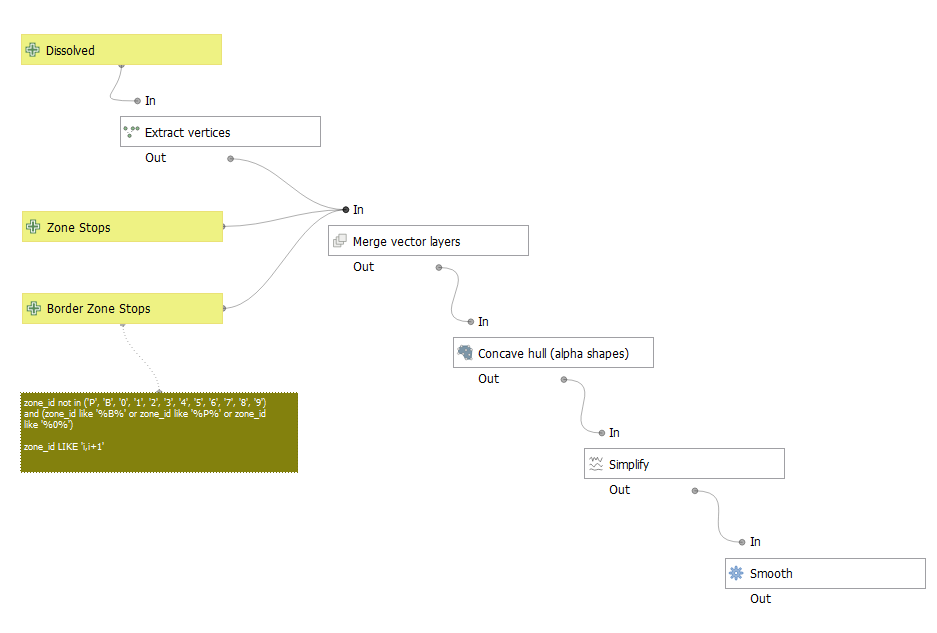
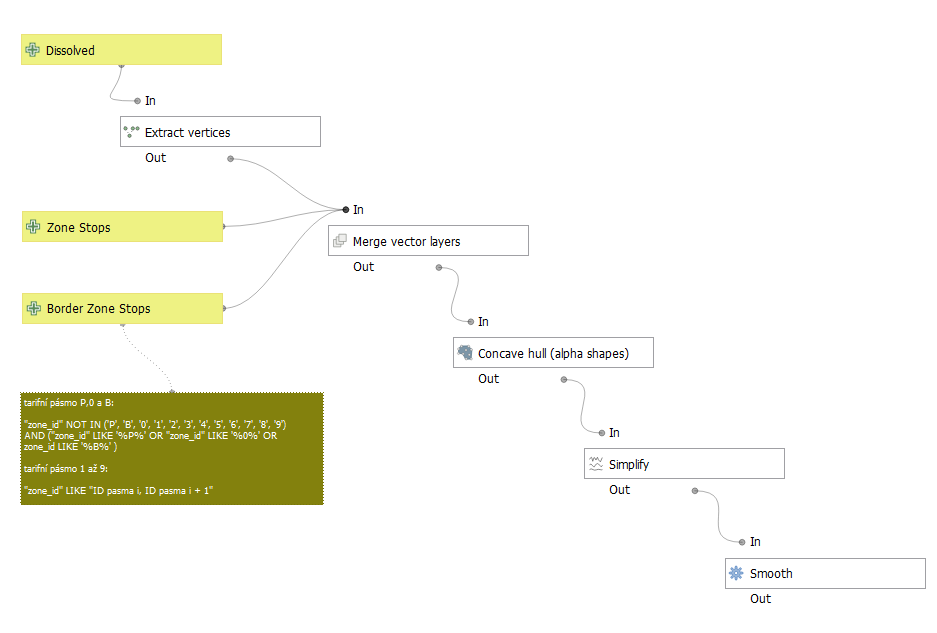
obrázky postupu + závěr + oprava chyb

Changed region(s): [[0.0, 0.6003, 0.3714, 0.8104]]

diff --git a/text/1-reserse.tex b/text/1-reserse.tex
@@ -3,7 +3,7 @@
 
 Tarifní pásma Pražské integrované dopravy jsou mimo jiné publikována jako shapefile 
 \footnote{formát vektorového datového úložiště Esri pro ukládání umístění,
-tvaru a atributů geografických prvků \cite{shapefile}}
+tvaru a atributů geografic\-kých prvků \cite{shapefile}}
 na portálu \textit{opendata hlavního města Prahy} \cite{opendata}. Tento shapefile
 obsahuje vektorové vrstvy polygonů.
 
@@ -11,10 +11,10 @@ obsahuje vektorové vrstvy polygonů.
 \label{triangulace}
 
 První myšlenkou, jak se přiblížit k takovým polygonům bylo vytvoření linií mezi jednotlivými zastávkami.
-K tomu slouží takzvaná triangulace, která vytvoří trojúhelníky bezi body, kde uvnitř těchto trojuhelníků  
+K tomu slouží takzvaná triangulace, která vytvoří troj\-úhelníky mezi body, kde uvnitř těchto trojúhelníků  
 už neleží žádné body a každý trojúhelník má vždy společnou jednu hranu. 
 
-Takové triangulace se používají v kartografii, tak v GIS, v Dálkovém průzkumu země,
+Takové triangulace se používají jak v kartografii, tak v GIS, v Dálkovém průzkumu země,
 počítačové grafice, při analýze vlastností a struktury materiálů, plánování pohybu robotů
 nebo při modelování přírodních jevů. \cite{bayer-delaunay}
 
@@ -34,7 +34,7 @@ nepříliš používá. \cite{vanicek}
 \end{figure}
 
 Další triangulací je tzv. Delaunay triangulace, která je nejčastěji používaná.
-Delaunay triangulací se rozumí vytváření liniových spojnic bodů mez jednotlivými body, které si jsou sobě nejblíž,
+Delaunay triangulací se rozumí vytváření liniových spojnic bodů mezi jednotlivými body, které jsou si nejblíže,
 za pomocí opsaných kružnic. Delaunay triangulace má několik vlastností. Jednou z nich je například,
 že uvnitř kružnice k opsané libovolnému trojúhelníku neleží žádný jiný bod.
 Zároveň Delaunay triangulace je jednoznačná, pokud žádné čtyři body neleží na kružnici.
@@ -59,12 +59,12 @@ tudíž se pro tvorbu 2D tarifních pásem úplně nehodí.
 \label{konv_obalka}
 
 Pro vytváření hranic polygonů je konvexní obálka jedna z možností, co použít. Konvexní obálka (anglicky Convex hull)
-je nejmenší konvexní mnoužinou, pokud spojnice  libovolných dvou prvků leží zcela uvnitř této množiny.
-Je to jedna z nejpoužívanějších geometrických struktura, která je většinou používaná jako první odhad tvaru
+je nejmenší konvexní množinou, pokud spoj\-nice  libovolných dvou prvků leží zcela uvnitř této množiny.
+Je to jedna z nejpoužívanějších geometrických struktur, která je většinou používána jako první odhad
 prostorového tvaru.
 
 Konstrukce konvexní obálky se nejčastěji provádějí metodami: Jarvis Scan, Graham Scan, Quick Hull nebo
-Divide and Conquer. Konvexní obálku lze vytvářet i pomocí Delaunay triangulace, kdy se po dokončení
+Divide and Conquer. Konvexní obálku lze vytvářet i pomocí Delaunay triangulace, kdy se po jejím dokončení
 spojí všechny trojúhelníky.
 
 \begin{figure}[H] \centering
@@ -79,9 +79,9 @@ spojí všechny trojúhelníky.
 Oproti konvexní obálce je konkávní obálka pro tvorbu složitější. Není znám přesný postup,
 jak tento problém řešit, ale existují různé aproximace, které se k tomu chtějí přiblížit.
 První aproximace je pomocí Delaunay triangulace, kde se vytvoří trojúhelníky, vznikne
-konvexní obálka a pak se odebírají trojúhelníky s nevhodnými vlasnostmi. Typicky mají příliš ostrý nebo tupý
-úhel, hraniční hodnota si můžete zvolit.
-Předpokladem, aby úspěšně fungovala je, že množina bodů má konstantní
+konvexní obálka a pak se odebírají trojúhelníky s nevhodnými vlastnostmi. Typicky mají příliš ostrý nebo tupý
+úhel, hraniční hodnota vlastností se může zvolit.
+Předpokladem pro úspěšně fungování je to, že množina bodů má konstantní
 prostorovou hustotu bodů.
 
 Další aproximací je pomocí alpha-shapes, kde se volí parametr alpha. Představme si obrovskou masu zmrzliny,
@@ -92,7 +92,7 @@ aniž bychom narazili na kousky čokolády, a tím dokonce vydlabeme otvory uvni
 (ne nutně konvexním) objektem ohraničeným oblouky a body. Pokud nyní narovnáme všechny 
 „kulaté“ plochy na trojúhelníky a úsečky, máme intuitivní popis toho, co se nazývá alpha-shape. \cite{alpha-shapes}
 
-Další strategií je kompromisni definice mezi alpha-shapes a konkávní obálkou, tzv. alpha-concave
+Další strategií je kompromisní definice mezi alpha-shapes a konkávní obálkou, tzv. alpha-concave
 hull. 
 
 \begin{figure}[H] \centering
@@ -106,10 +106,10 @@ hull.
 Tarifní pásma zasahují tam, kde nejsou žádné zastávky. Pro takové vyplnění plochy
 mezi zastávkami a pro místa, kde zastávky nejsou (většinou na krajích zón) není triangulace, konvexní nebo konkávní 
 obálka úplně vhodná. Pro takový problém bylo další myšlenkou použít teselaci, což je vyplnění roviny pomocí jednoho
-nebo více geometrických útvarů vzájemně spojených, bez překrývú a mezer. Triangulace, konvexní nebo konkávní 
+nebo více geometrických útvarů vzájemně spojených, bez překryvů a mezer. Triangulace, konvexní nebo konkávní 
 obálka se mohou hodit při dalších krocích výpočtu.
 
-Nejpoužívanější teselací v oblastí GIS je Voronoi diagram, někdy nazývána Voroného teselace, Voroného dekompozice,
+Nejpoužívanější teselací v oblastí GIS je Voronoi diagram, někdy nazývána Voroné\-ho teselace, Voroného dekompozice,
 Thiessenovy polygony nebo Dirichletova teselace, což je způsob rozkladu 
 metrického prostoru určený vzdálenostmi k dané nespojité množině bodů v prostoru.
 V našem případě se bude řešit Voronoi diagram ve 2D prostoru, tedy v rovině.
@@ -121,7 +121,7 @@ což představuje takovou množinu buněk, pro které bude platit, že každý b
 bodu \textit{p\textsubscript{j}} náležící množině \textit{P}.  \cite{bayer-voronoi}
 
 Pro lepší chápání Voronoi diagramů je potřeba si vysvětlit její terminologii.
-Vstupní množinu bodů nazýváme generátory, každý bod generuje jednu Voronoi buňku. V 
+Vstup\-ní množinu bodů nazýváme generátory, každý bod generuje jednu Voronoi buňku. V 
 terminologii GIS se hovoří o tzv. Voronoi polygony. Tyto Voronoi buňky jsou tvořeny hranami,
 které spojují dva Voronoi vrcholy. Dohromady tyto Voronoi buňky tvoří Voronoi diagram.  
 
@@ -132,7 +132,7 @@ které spojují dva Voronoi vrcholy. Dohromady tyto Voronoi buňky tvoří Voron
 \end{figure}
 
 Voronoi diagramy mají své vlastnosti, které jsou důležité pro jejich tvorbu. V následujících
-odrážkách jsou doslovně citována jejih znění z prezentace pana doc. Ing. Tomáše Bayera, Ph.D.
+odrážkách jsou doslovně citována jejich znění z prezentace pana doc. Ing. Tomáše Bayera, Ph.D.
 
 \begin{itemize}
 \item Voronoi diagram \textit{V(P)} je planárním grafem.
@@ -162,13 +162,13 @@ ortografický průmět bodu \textit{p\textsubscript{i}} na povrch paraboloidu da
 
 \begin{figure}[H] \centering
     \includegraphics[width=400pt]{./pictures/voronoi.png}
-    \caption[Voroného polygony]{Voroného polygony}
+    \caption[Voronoi polygony]{Voronoi polygony}
 	\label{fig:voronoi}              
 \end{figure}   
 
 Voronoi diagram má jistý vztah s Delaunay triangulací. Hraniční vstupní body
 Voronoi diagramu po spojení Delaunay triangulací tvoří konvexní obálku.
-Středy kružnic opsaných trojúhelníků Delaunay triangulace představují úzlové body
+Středy kružnic opsaných trojúhelníků Delaunay triangulace představují uzlové body
 Voronoi diagramu.
 
 Pro konstrukci Voronoi diagramu existují různé metody. Konstrukce lze v praxi tvořit přímo nebo nepřímo.
@@ -177,8 +177,8 @@ Rozděl a panuj. Nepřímá konstrukce je vytvářena přes Delaunay triangulaci
 kružnic opsaných trojúhelníků a bývá nejpoužívanější. 
 
 Využití Voronoi diagramů v oblasti GIS je široké. Například tzv. poštovní problém
-pomáhá při návrhu nových supermarkétů, stanic MHD či polohy nových nemocnic.
-Další využití jsou například nalezení všech sousedů, převod bodových údajů na plošné
+pomáhá při návrhu nových supermarketů, stanic MHD či polohy nových nemocnic.
+Mezi další využití patří například převod bodových údajů na plošné
 nebo klasifikace dat. \cite{bayer-voronoi}
 
 \subsubsection{Generalizace a zjemnění}
@@ -192,12 +192,12 @@ Prvním algoritmem je generalizační algoritmus „Douglas-Peucker“. Algoritm
 Zpočátku jsou uvedeny všechny body mezi prvním a posledním bodem. Automaticky označí první a poslední bod,
 který se má zachovat. Poté najde bod, který je nejvzdálenější od úsečky s prvním a posledním bodem 
 jako koncovými body. Tento bod je zjevně nejvzdálenější na křivce od přibližné úsečky mezi koncovými body. 
-Pokud je bod blíže než parametr epsilon, který je volitelný, k úsečce, mohou být všechny body, které nejsou aktuálně označeny jako zachováné, 
+Pokud je bod blíže k úsečce, než volitelný parametr epsilon, mohou být všechny body, které nejsou aktuálně označeny jako zachované, 
 zahozeny, aniž by zjednodušená křivka byla horší než parametr epsilon. Pokud je nejvzdálenější bod od úsečky větší než parametr epsilon od aproximace,
-musí být tento bod zachován. Algoritmus se rekurzivně volá sebe samotného s prvním bodem a nejvzdálenějším bodem 
+musí být tento bod zachován. Algoritmus rekurzivně volá sebe samotného s prvním bodem a nejvzdálenějším bodem 
 a poté nejvzdálenějším bodem a posledním bodem, který zahrnuje nejvzdálenější bod označený jako ponechaný. 
-Tento algoritmus je jeden z nejlepších generalizacních algoritmů a je velmi často
-implementován v GIS software. \cite{bayer-douglas}
+Tento algoritmus je jeden z nejlepších generalizačních algoritmů a je velmi často
+implementován v GIS softwarech. \cite{bayer-douglas}
 
 \begin{figure}[H] \centering
     \includegraphics[width=400pt]{./pictures/douglas.png}
@@ -214,13 +214,13 @@ Podobným algoritmem jako PAEK je algoritmus Chaikinův.
 Chaikin (autor algoritmu, po kterém je i algoritmus pojmenován) využil fixních poměrů na odříznutí rohů, takže byly všechny rozřezány stejně. 
 Při matematickém zápisu postupuje Chaikinova metoda následovně: Dostaneme kontrolní polygon 
 \textit{\{P\textsubscript{0}, P\textsubscript{1}, ..., P\textsubscript{n}\}},
-tento kontrolní polygon vylepšíme vygenerováním nové posloupnosti řídicích bodů 
+tento kontrolní polygon vylepšíme vygenerováním nové posloupnosti řídících bodů 
 \[ \{Q_0, R_0, Q_1, R_1, ...,  Q_{n−1}, R_{n−1}\} \]                                    
-kde každá nová dvojice bodů Q\textsubscript{i}, R\textsubscript{i} je třeba brát v poměru \(\frac{1}{4}\)
+kde každou novou dvojici bodů Q\textsubscript{i}, R\textsubscript{i} je třeba brát v poměru \(\frac{1}{4}\)
 a \(\frac{3}{4}\) mezi koncovými body segmentu čáry \(\overline{P\textsubscript{i}P\textsubscript{i+1}}\).
 \[Q_i = \frac{3}{4}P_i + \frac{1}{4}P_{i+1}\]
 \[R_i = \frac{1}{4}P_i + \frac{3}{4}P_{i+1}\]
-Tyto 2 nové body lze považovat za nový řídicí polygon - vylepšení původního řídicího polygonu. 
+Tyto 2 nové body lze považovat za nový řídicí polygon - vylepšení původního řídícího polygonu. 
 Tento postup lze pro tentýž úsek opakovat, čímž vznikne vyhlazená čára. \cite{chaikin} 
 
 \begin{figure}[H] \centering

diff --git a/text/5-postup.tex b/text/5-postup.tex
@@ -3,11 +3,11 @@
 
 \section{Aktualizace pluginu do verze 1.0}
 Po dokončení pluginu v předmětu Free Software GIS měl plugin veškerou základní 
-funkcionalitu, kterou měl mít. Tou bylo načítání GTFS ZIP souboru do QGISu,
+funkcionalitu, kterou měl mít. Tou bylo načítání GTFS ZIP souboru do systému QGIS,
 rozbalení ZIP souboru, načtení CSV souborů do geodatabázového kontajneru GeoPackage (dále GPKG),
 vytvoření vektorových vrstev pro soubory \textit{stops.txt} a \textit{shapes.txt},
 obarvení vektorové vrty \textit{shapes.txt} a vložení do CSV souborů a vrstev do
-\textit{layer tree} \footnote{součást QGISu odpovědná za zobrazení seznamu vrstev}.
+\textit{layer tree} \footnote{součást systému QGIS odpovědná za zobrazení seznamu vrstev}.
 
 Avšak pro uvedení do "ostrého" provozu musel být plugin více uživatelsky přívětivější.
 Proto byl veškerý proces přesunut na pozadí, aby celý QGIS program "nezamrzal" a
@@ -15,12 +15,12 @@ mohla se při jeho výpočtech provádět i jiné akce. To se provedlo díky Pyt
 a jejím metodám, které byly zděděny z této třídy. \cite{QgsTask}
 
 Pro zobrazování procesu během výpočtu byla použita třída \textit{QProgressBar} a její metody.
-Zobrazení postupu bylo implementováno do lišty zpráv QGISu spolu s chybovými hláškami.
+Zobrazení postupu bylo implementováno do lišty zpráv systému QGIS spolu s chybovými hláškami.
 
 \begin{figure}[H] \centering
     \includegraphics[width=400pt]{./pictures/loading.png}
-    \caption[ProgressBar]{ProgressBar v liště QGISu}
-	\label{fig:ProgressBar v liště QGISu}              
+    \caption[ProgressBar]{ProgressBar v liště systému QGIS}
+	\label{fig:ProgressBar v liště systému QGIS}              
 \end{figure}     
 
 % možná přidat code refactorization
@@ -28,7 +28,7 @@ Zobrazení postupu bylo implementováno do lišty zpráv QGISu spolu s chybovým
 \section{Tvorba vizualizace tarifních pásem (verze 2.0)}
 
 Při myšlenkách, jak se k tvorbě tarifních pásem postavit,
-se naskytla možnost to vypracovat pomocí Grafického modeláře, který je zabudovaný v QGISu. 
+se naskytla možnost to vypracovat pomocí Grafického modeláře, který je zabudovaný v systému QGIS. 
 Kvůli omezeným možnostem úprav nástrojů se z těchto myšlenek upustilo a začal se tvořit postup
 na "čístý" Python skript pomocí QGIS nástrojů. I přes to, že lze z Grafického modeláře exportovat skript. 
 
@@ -214,7 +214,7 @@ Například pro zastávky mezi pásmem 1 a 2 byla hodnota pole \textit{zone\_id}
 
 Pro tarifní pásma P, 0 a B byl použit dotaz:
 
-\["zone\_id"\ NOT\ IN\ ('P',\ '0',\ 'B',\ '1',\ '2',\ '3',\ '4',\ '5',\ '6',\ '7',\ '8',\ '9')\]
+\["zone\_id"\ NOT\ IN\ ('P',\ '0',\ 'B',\ '1',\ '2',\ '3',\ '4',\ '5',\ '6',\ '7',\ '8',\ '9')\ AND\]
 \[("zone\_id"\ LIKE\ '\%P\%'\ OR\ "zone\_id"\ LIKE\ '\%0\%'\ OR\ "zone\_id"\ LIKE\ '\%B\%')\]
 
 Pro tarifní pásma 1 až 9 byl použit dotaz:
@@ -237,7 +237,7 @@ Pro spojení bodů a vytvoření jakési obálky byl nejdříve vyzkoušen nást
 což je aplikace algoritmu Konvexní obálky viz \ref{konv_obalka}. Tento způsob však velmi zjednodušoval tvar
 tarifních pásem, a proto nástroj \textit{Minimum bounding box} nebyl použit.
 
-Byla zvolena další možnost nástroje QGISu spojující body do jisté obálky. Tím nástrojem byl \textit{Concave hull (alpha shapes)} 
+Byla zvolena další možnost nástroje systému QGIS spojující body do jisté obálky. Tím nástrojem byl \textit{Concave hull (alpha shapes)} 
 využívající aproximaci alpha-shapes viz kapitola \ref{konk_obalka}
 
 Vstupem nástroje tedy byla vrstva spojených bodů, což byl první parametr
@@ -305,7 +305,7 @@ V dosavadním postupu nebyl jejich problém efektivně vyřešen kvůli konkávn
 která nezvládala spojovat určité body, které byly požadovány.
 
 Naskytla se tedy myšlenka upravit algoritmus nástroje \textit{Concave hull (alpha shapes)},
-který je veřejně publikován na GitHubu jako ostatně celý zdrojový kód QGISu, do obrazu
+který je veřejně publikován na GitHubu jako ostatně celý zdrojový kód systému QGIS, do obrazu
 svého, aby hraniční zastávky propojoval. 
 
 Zdrojový kód nástroje byl napsán Piotrem Pociaskem v květnu 2014. Skládá se mimo jiné z nástroje
@@ -355,7 +355,14 @@ Tento atributový dotaz vypadal následovně:
 Hodnota čísla \textit{X} byla nastavena na 5, tudíž byly vybrány jen ty polygony, ve kterých leželo více zastávek jak 5.
 
 Tento postup byl proveden pro všechny tarifní pásma for cyklem společně s vyhlazením těchto polygonů,
-jak je uvedeno v kapitole \ref{vyhlazeni}.  
+jak je uvedeno v kapitole \ref{vyhlazeni}. Na obrázku \ref{fig:postup-border-zones} je v Grafickém modeláři zobrazen
+přehledný postup pro hraniční tarifní pásma. 
+
+\begin{figure}[H] \centering
+    \includegraphics[width=400pt]{./pictures/postup-border-zones.png}
+    \caption[Postup pro hraniční tarifní pásma]{Postup pro hraniční tarifní pásma}
+	\label{fig:postup-border-zones}              
+\end{figure}
 
 \subsection{Seskupení tarifních pásem}
 
@@ -380,7 +387,14 @@ Výstupem byla vektorová vrstva vícedílných polygonů. Tento postup byl prov
 Poté už zbývalo spojit vektorovou vrstvu tarifních pásem a vektorovou vrstvu hraničních pásem. Opět kvůli vyhýbnutí se 
 překrývání vektorových vrstev byl nejdříve použit nástroj \textit{Difference} a následně nástroj  \textit{Merge vector layers}.
 
-Výsledkem byla jedna vektorová vrstva obsahující polygony tarifních i hraničních pásem.
+Výsledkem byla jedna vektorová vrstva obsahující polygony tarifních i hraničních pásem. Na následujícím obrázku
+je přehledně zobrazen postup seskupení v Grafickém modeláři.
+
+\begin{figure}[H] \centering
+    \includegraphics[width=400pt]{./pictures/postup-collecting.png}
+    \caption[Postup pro seskupení vektorových vrstev tarfních pásem]{Postup pro seskupení vektorových vrstev tarfních pásem}
+	\label{fig:postup-collecting}              
+\end{figure}
 
 \subsection{Obarvení tarifních pásem}
 

diff --git a/text/4-technologie.tex b/text/4-technologie.tex
@@ -11,7 +11,7 @@ přispěvatelé. Software byl vyvíjen v programovacím jazyku C++ a Python (viz
 
 \begin{figure}[H] \centering
     \includegraphics[width=64pt]{./pictures/qgis-logo.png}
-    \caption[Logo QGISu]{Logo QGISu \cite{qgis}}
+    \caption[Logo systému QGIS]{Logo systému QGIS \cite{qgis}}
 	\label{fig:qgis-logo}                                
 \end{figure}
 
@@ -20,7 +20,7 @@ nezisková organizace, jejíž cílem je podporovat a prosazovat společný výv
 technologií. Běží na operačních systémech Linux, Unix, Mac OSX, Windows a Android a podporuje
 řadu vektorových, rastrových a databázových formátů.
 
-Kromě desktop verze QGISu existuje i QGIS Server, který umožňuje publikovat projekty a vrstvy
+Kromě desktop verze systému QGIS existuje i QGIS Server, který umožňuje publikovat projekty a vrstvy
 QGIS jako služby WMS, WMTS, WFS a WCS kompatibilní s OGC (Open Geospatial Consortium - mezinárodní standardizační organizace
 o geoprostorových datech a službách). Dále existuje webový klient, kde lze publikovat
 QGIS projekty a využívat funkce symboliky a značení. Pro mobilní zařízení tu jsou
@@ -31,17 +31,17 @@ například přímo v terénu.
 
 QGIS má jako většina softwarů svou dokumentaci, která je sestavena pomocí nástroje Sphinx. 
 Dokumentace je taktéž open-source na GitHubu a upravovat ji může každý. Obsahuje
-informace pro obyčejné desktop uživatele QGISu, pro přispěvatele dokumentace nebo pro QGIS
+informace pro obyčejné desktop uživatele systému QGIS, pro přispěvatele dokumentace nebo pro QGIS
 vývojáře. V dokumentaci si může uživatel například dočíst informace nebo nápovědu o různých
 QGIS nástrojech.
 
 Právě QGIS vývojáři potřebují dokumentaci pro výtváření zautomatizovaných skriptů nebo QGIS zásuvných modulů (pluginů).
 Skripty a větší část pluginů jsou vytvářena v programovacím jazyku Python (viz \ref{section-python})
-a menší část v programovacím jazyku C++. Instalaci pluginu lze provést z nabídky uvnitř QGISu
+a menší část v programovacím jazyku C++. Instalaci pluginu lze provést z nabídky uvnitř systému QGIS
 anebo pomocí ZIP souboru. Pro zobrazení pluginu v QGIS nabídce je potřeba nechat plugin
-schválit správci QGISu, jestli splňuje všechny povinné aspekty QGIS pluginů.
+schválit správci systému QGIS, jestli splňuje všechny povinné aspekty QGIS pluginů.
 
-Součástí QGISu je i Model Designer (nebo také Graphical modeler, česky Grafický modelář).
+Součástí systému QGIS je i Model Designer (nebo také Graphical modeler, česky Grafický modelář).
 Pomocí Grafického modeláře lze tvořit modely QGIS nástrojů, což jsou uspořádané nástroje do jednoho řetězového postupu.
 Pomáhá lépe se v tomto postupu orientovat, měnit vstupy funkcí, pojmenovávat nástroje a jejich parametry,
 přidávat komentáře či jednotlivé nástroje seskupovat do skupin. 
@@ -77,7 +77,7 @@ jako například objektově orientované, imperativní, procedurální nebo funk
 Aby aplikaci vytvořenou v Pythonu mohl ovládat člověk, který se neorientuje v programování a ani nechce,
 musí se i ke kódu aplikace vytvořit grafické uživatelské rozhraní (GUI). Python má širokou škálu knihoven
 pro vytváření GUI jako například Tkinter, wxPython, PySide2 nebo PyQt. Právě PyQt je již standardně 
-vestavěný v QGISu, tak se zdá jako nejlepší volbou pro tvorbu pluginů.  
+vestavěný v systému QGIS, tak se zdá jako nejlepší volbou pro tvorbu pluginů.  
 
 PyQt je vazba Pythonu pro aplikační framework Qt vyvinutý společností RiverBank Computing Ltd.
 Je k dispozici ve třech verzích: PyQt6 podporuje Qt v6, PyQt5 podporuje Qt v5 a PyQt4 podporuje Qt v4,

diff --git a/text/6-zaver.tex b/text/6-zaver.tex
@@ -8,11 +8,21 @@ ve formátu GTFS a najít a vhodně implementovat způsob vizualizace tarifních
 (PID) generovaných automaticky z podkladových dat.
 
 První cíl byl splněn ve formě aktualizace pluginu na verzi 1.0 a následné její publikace v oficiálním
-repozitáři systému QGIS. K 8.5.2021 bylo v záložce Plugins uvedeno 398 unikátních stáhnutí pluginu.
+repozitáři systému QGIS. K 8.5.2021 bylo v záložce Plugins uvedeno 400 unikátních stáhnutí pluginu.
 
-Implementace vizualizace tarifních pásem byla tvořena jako verze pluginu 2.0. Výsledek
+Implementace vizualizace tarifních pásem byla vytvářena jako verze pluginu 2.0. Výsledek
 byl tvořen jako volitelný výstup pluginu ve formě vektorové vrstvy s obarvením jednotlivých tarifních pásem.
 Výsledný tvar byl podobný oficiální verzi publikované veřejně organizací ROPID, ale byl doplněn o tzv. hraniční pásma,
 která pokrývala větší seskupení hraničních zastávek. Pro ostatní nepokryté hraniční zastávky 
-se nepodařil najít způsob, jak je napřímo propojit s hranicemi tarifních pásem. 
+se nepodařil najít způsob, jak je napřímo propojit s hranicemi tarifních pásem.
+
+Jak již bylo zmíněno, proces pluginu pro vytváření tarifních pásem nezvládá správně zpracovat hraniční zastávky.
+Zároveň pro oblasti, ve kterých jsou umístěny zastávky velmi vzácně, vzníkají "díry" mezi tarifními pásmy.
+Tyto "díry" se ve snaze pro lepší tvar eliminovaly, ale kvůli tomu vznikl další problém překrývajících se tarifních pásem.
+Každopádně pro lepší tvar je potřeba manuální editace vektorové vrstvy.
+
+Tento postup není rozhodně ideální a je na něm co vylepšovat. Předmět úpravy a vylepšení pluginu
+se může stát dalším tématem semestrálních či závěrečných prací. Tak či tak zdrojový kód
+je již nyní veřejně přístupný v repozitáři pluginu a může k němu kdokoliv přidávat
+návrhy na vylepšení.  
 

diff --git a/text/0-uvod.tex b/text/0-uvod.tex
@@ -17,8 +17,8 @@ Více o systému Pražské integrované dopravy je v kapitole \ref{3-teorie-pid}
 Tarifní pásma Pražské integrované dopravy jsou zatím modelována manuálně a nejsou
 nikterak zautomatizována. Cílem této diplomové práce bude vytvořit postup pro
 automatické vyhotovení exaktního modelu tarifních pásem a co nejvíce se přiblížit k jejich
-oficiální podobě vydávaným ROPIDem. Alternativním cílem je vytvořit schématický model, který nesplňuje tolik
-pravidla pro tvorbu tarifních pásem, ale má informační hodnotu pro mapy menších měřítek
+oficiální podobě vydávaným organizace ROPID. Alternativním cílem je vytvořit schématický model, který nesplňuje tolik
+pravidel pro tvorbu tarifních pásem, ale má informační hodnotu pro mapy menších měřítek
 například pro různé plánky Pražské integrované dopravy. V postupu se bude využívat GTFS 
 dataset, o kterém se mimo jiné píše v kapitole \ref{2-teorie-gtfs}.
 
